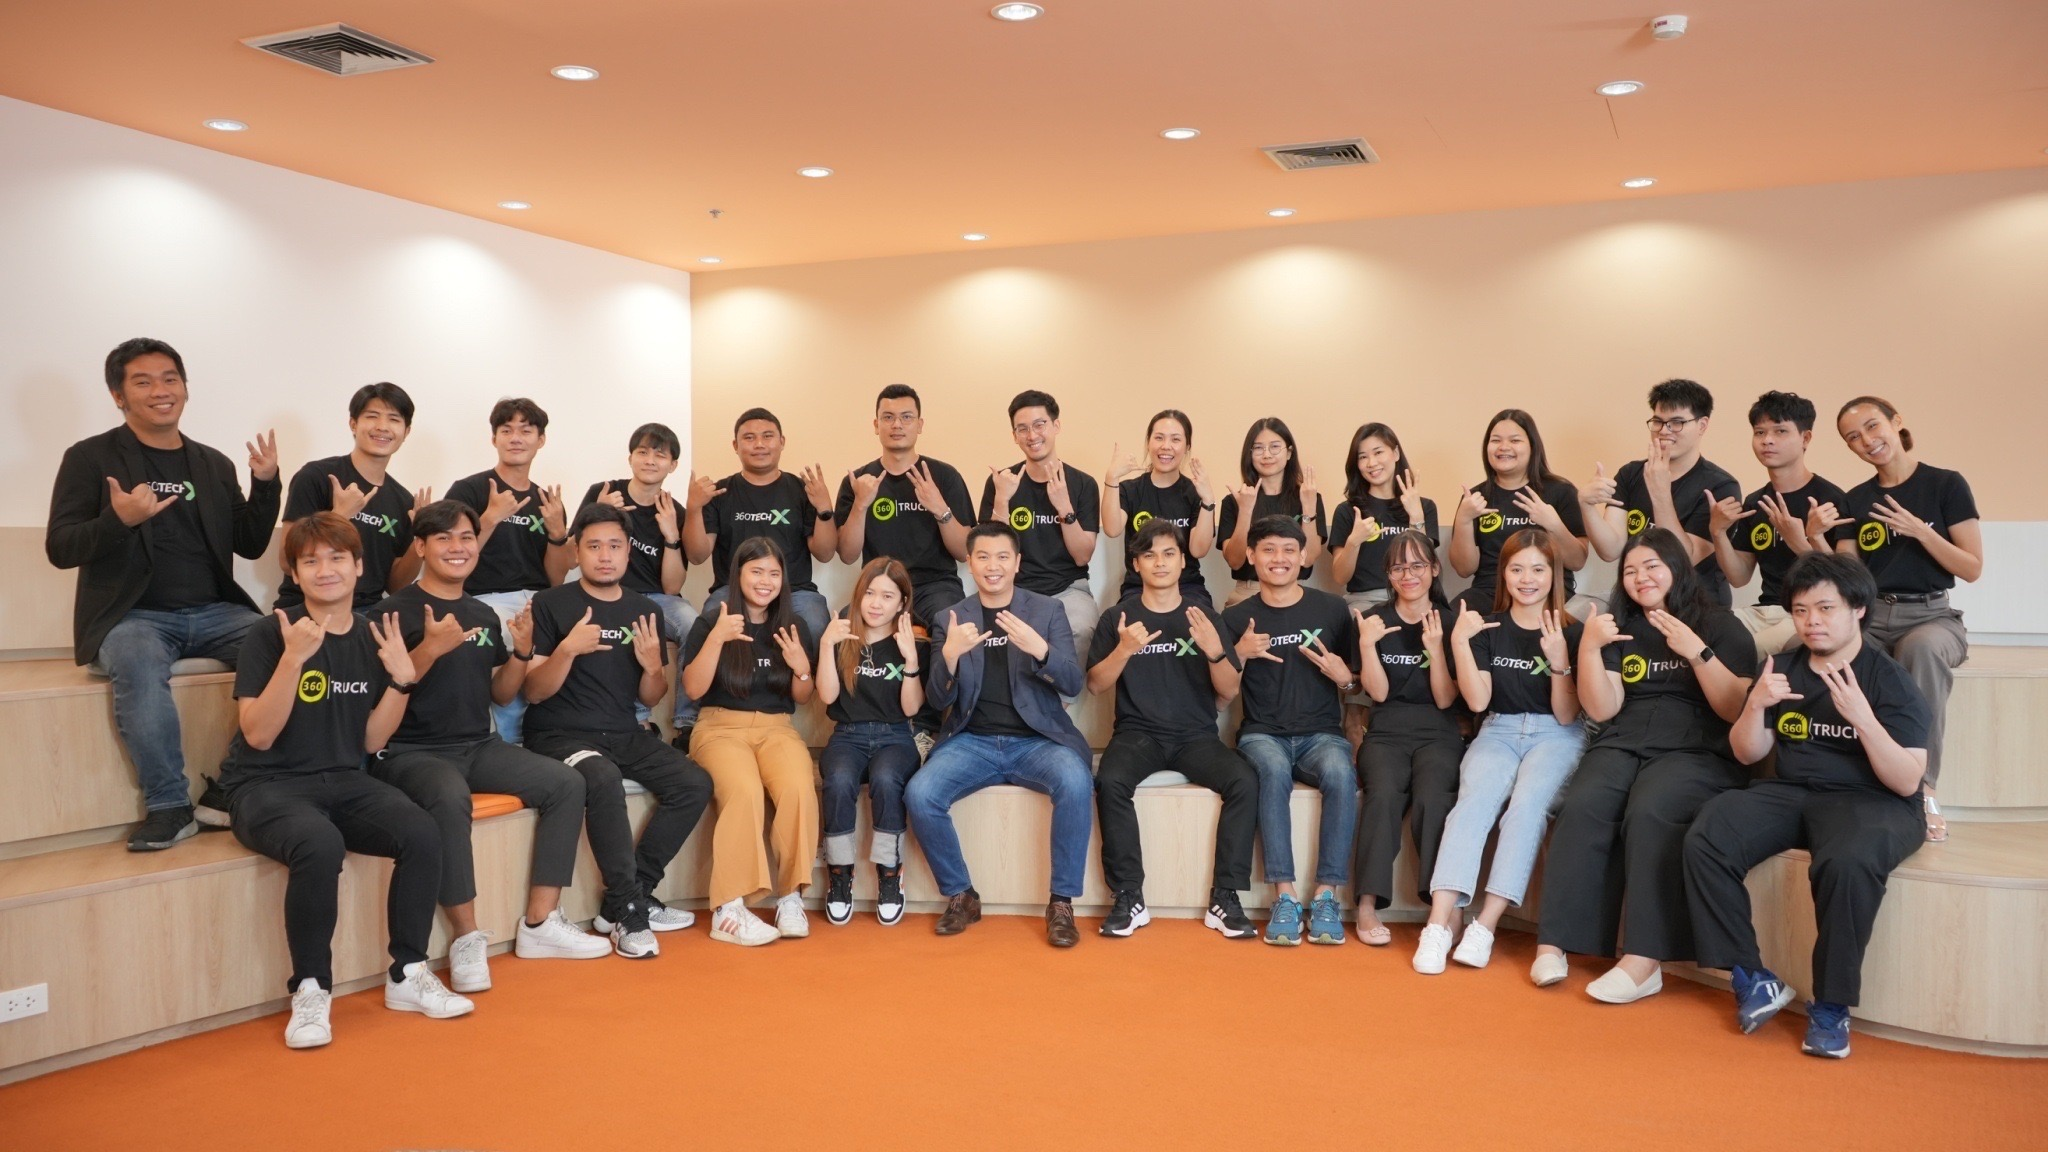
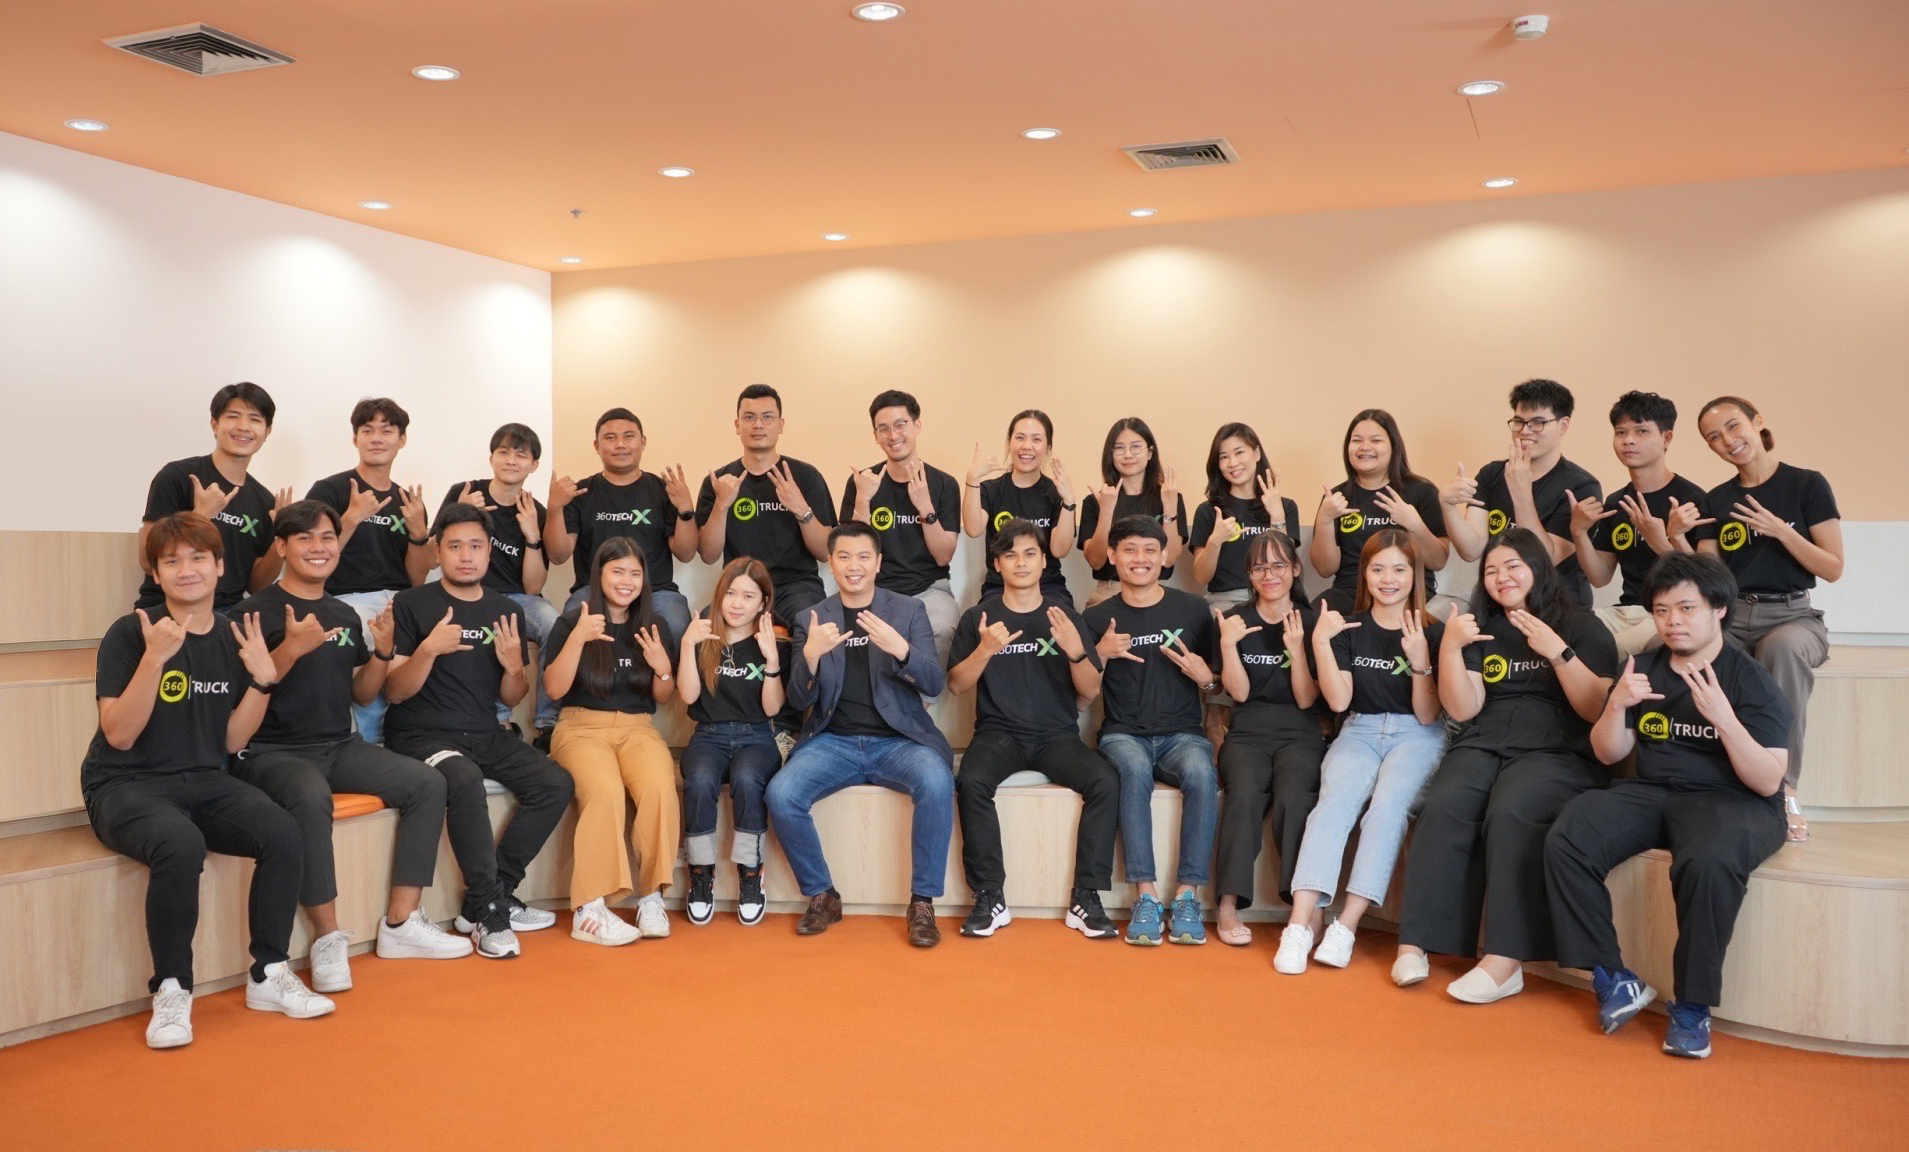
หน้าเกี่ยวกับเรา : ปรับรูปภาพ Herosection ใหม่ ลบพี่สันติออก หน้า TMS Basic : แก้ไข Section : Redesign1SectionBasic ให้รองรับ Responsive mobile / เพิ่มรูปภาพ Interface 3 Feature + Add Effect image ให้เหมือนหน้าแรก

diff --git a/src/app/360techx-basic/page.js b/src/app/360techx-basic/page.js
@@ -140,7 +140,26 @@ export default function BasicPage() {
             .image-content { order: 1; }
         }
 
-        
+        .basic-interface-img {
+            transition: transform 0.6s cubic-bezier(0.2, 0.8, 0.2, 1);
+            transform-style: preserve-3d;
+        }
+        .breakout-right .basic-interface-img {
+            transform: rotateY(-12deg) rotateX(5deg);
+        }
+        .breakout-left .basic-interface-img {
+            transform: rotateY(12deg) rotateX(5deg);
+        }
+        .basic-interface-img:hover {
+            transform: rotateY(0deg) rotateX(0deg) translateY(-5px) scale(1.03) !important;
+        }
+        @media(max-width: 1024px) {
+            .breakout-right .basic-interface-img,
+            .breakout-left .basic-interface-img {
+                transform: rotateY(0deg) rotateX(0deg) !important;
+            }
+        }
+
       `}} />
       
       {/* Hero Section */}
@@ -180,7 +199,7 @@ export default function BasicPage() {
               <p style={{ color: 'var(--text-muted)', fontSize: '1.15rem', maxWidth: '900px', margin: '0 auto', lineHeight: '1.6' }}>ระบบ Transportation Management System หรือ TMS ระบบที่ช่วยบริหารและจัดการการขนส่งพื้นฐานที่ช่วยให้มองเห็นภาพรวมธุรกิจโดยรวมของงานขนส่งทั้งหมดไว้ในที่เดียว</p>
           </div>
           
-          <div style={{ display: 'grid', gridTemplateColumns: 'repeat(auto-fit, minmax(450px, 1fr))', gap: '2rem' }}>
+          <div style={{ display: 'grid', gridTemplateColumns: 'repeat(auto-fit, minmax(min(100%, 450px), 1fr))', gap: '2rem' }}>
               {/* Service 1 */}
               <div className="glass-card hover-lift" style={{ padding: '3rem', borderRadius: '32px' }}>
                   <div style={{ background: 'rgba(6, 182, 212, 0.1)', width: '60px', height: '60px', borderRadius: '16px', display: 'flex', alignItems: 'center', justifyContent: 'center', marginBottom: '1.5rem', color: 'var(--primary)' }}>
@@ -245,14 +264,14 @@ export default function BasicPage() {
               </ul>
           </div>
           <div className="image-content">
-              <img src="/Logo-interface/Basic-กำลังขนส่ง.jpg" alt="สร้างงานขนส่งได้เร็ว" className="hover-lift" style={{ width: '100%', display: 'block', objectFit: 'cover', borderRadius: '16px', boxShadow: '-10px 20px 40px rgba(0,0,0,0.1)' }} />
+              <img src="/interface-page-basic/createbooking-basic.png" alt="สร้างงานขนส่งได้เร็ว" className="basic-interface-img" style={{ width: '100%', display: 'block', objectFit: 'cover', borderRadius: '16px' }} />
           </div>
       </section>
 
       {/* Split Features Section 2 */}
       <section className="breakout-left reveal" style={{ marginBottom: '6rem' }}>
           <div className="image-content">
-              <img src="/Logo-interface/Basic-กำลังขนส่ง.jpg" alt="Check-in อัตโนมัติ" className="hover-lift" style={{ width: '100%', display: 'block', objectFit: 'cover', borderRadius: '16px', boxShadow: '10px 20px 40px rgba(0,0,0,0.1)' }} />
+              <img src="/interface-page-basic/update-status-basic.png" alt="Check-in อัตโนมัติ" className="basic-interface-img" style={{ width: '100%', display: 'block', objectFit: 'cover', borderRadius: '16px' }} />
           </div>
           <div className="text-content">
               <h2 style={{ fontSize: '2.5rem', lineHeight: '1.25', marginBottom: '2.5rem', letterSpacing: '-0.5px' }}>ตัวช่วย <span className="text-gradient">Check-in อัตโนมัติ</span></h2>
@@ -305,7 +324,7 @@ export default function BasicPage() {
               </ul>
           </div>
           <div className="image-content">
-              <img src="/Logo-interface/Basic-กำลังขนส่ง.jpg" alt="ติดตามสถานะงานขนส่ง" className="hover-lift" style={{ width: '100%', display: 'block', objectFit: 'cover', borderRadius: '16px', boxShadow: '-10px 20px 40px rgba(0,0,0,0.1)' }} />
+              <img src="/interface-page-basic/share-booking-basic.png" alt="ติดตามสถานะงานขนส่ง" className="basic-interface-img" style={{ width: '100%', display: 'block', objectFit: 'cover', borderRadius: '16px' }} />
           </div>
       </section>
 

diff --git a/src/app/360techx-basic/components/Redesign1SectionBasic.js b/src/app/360techx-basic/components/Redesign1SectionBasic.js
@@ -137,11 +137,18 @@ export default function Redesign1SectionBasic() {
                     .expandable-card:hover {
                         flex: none !important;
                     }
+                    .expandable-header {
+                        flex-direction: column;
+                        gap: 1rem;
+                    }
                     .expandable-text-group,
                     .expandable-container:not(:hover) .expandable-card:first-child .expandable-text-group {
                         opacity: 1 !important;
                         transform: translateY(0) !important;
                         width: 100% !important;
+                    }
+                    .expandable-title {
+                        white-space: normal;
                     }
                     .expandable-desc {
                         min-width: unset;
